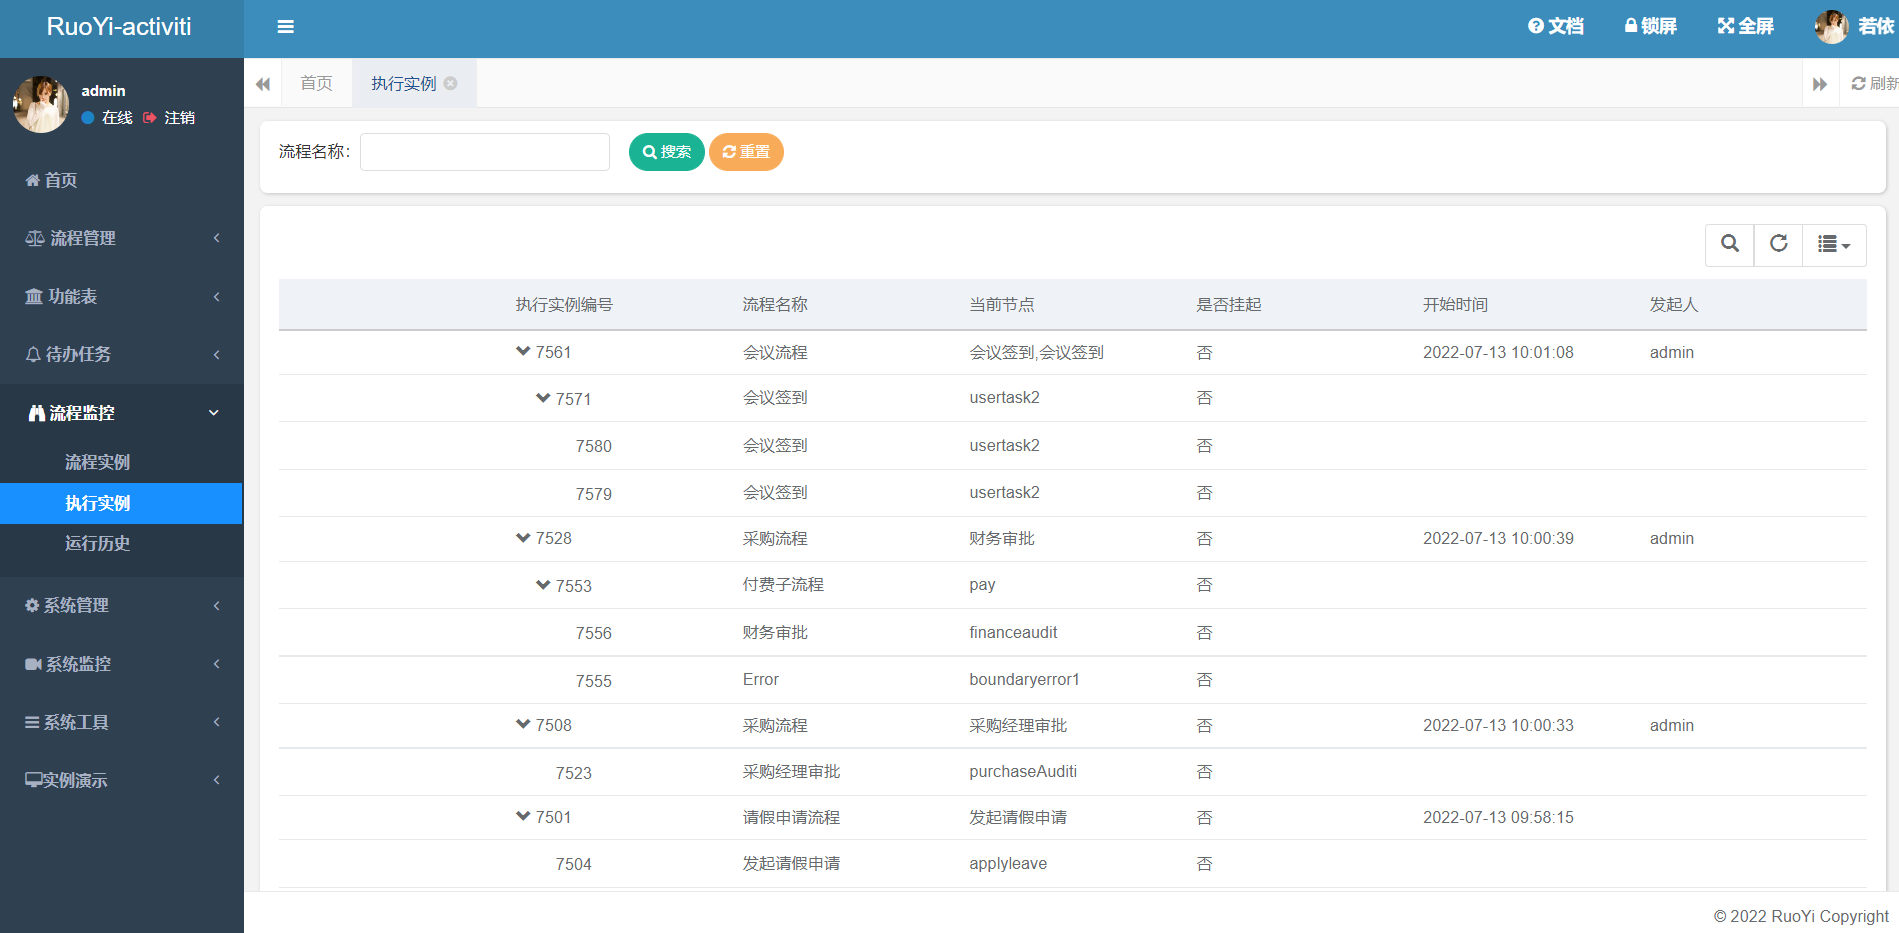
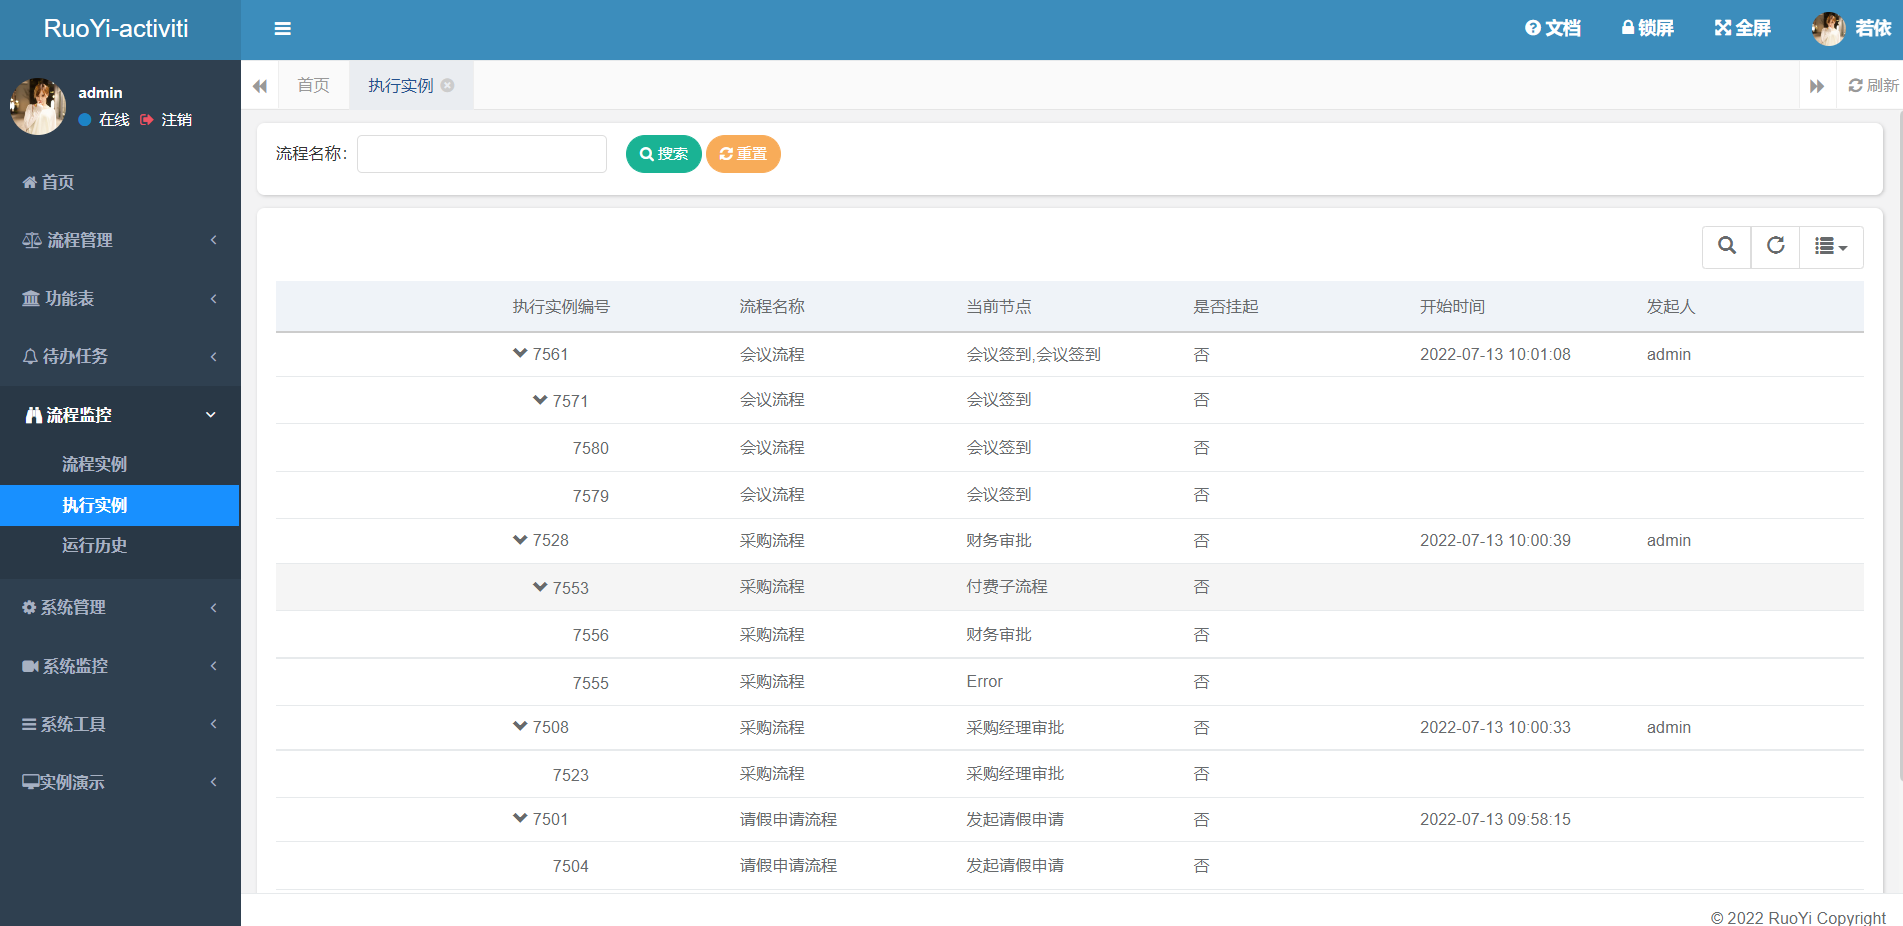
bugfix

diff --git a/ruoyi-admin/src/main/java/com/ruoyi/web/controller/activiti/FlowMonitorController.java b/ruoyi-admin/src/main/java/com/ruoyi/web/controller/activiti/FlowMonitorController.java
@@ -240,11 +240,11 @@ public class FlowMonitorController extends BaseController {
             info.setProcessInstanceId(p.getProcessInstanceId());
             info.setSuspended(p.isSuspended());
             if (p.getActivityId() != null) {
-                info.setCurrentTask(p.getActivityId());
                 ProcessInstance process = runtimeService.createProcessInstanceQuery().processInstanceId(p.getProcessInstanceId()).singleResult();
                 BpmnModel bpmnModel = repositoryService.getBpmnModel(process.getProcessDefinitionId());
                 Map<String, FlowElement> nodes = bpmnModel.getMainProcess().getFlowElementMap();
-                info.setName(nodes.get(p.getActivityId()).getName());
+                info.setCurrentTask(nodes.get(p.getActivityId()).getName());
+                info.setName(process.getProcessDefinitionName());
             } else {
                 ProcessInstance process = runtimeService.createProcessInstanceQuery().processInstanceId(p.getProcessInstanceId()).singleResult();
                 info.setStartTime(process.getStartTime());
